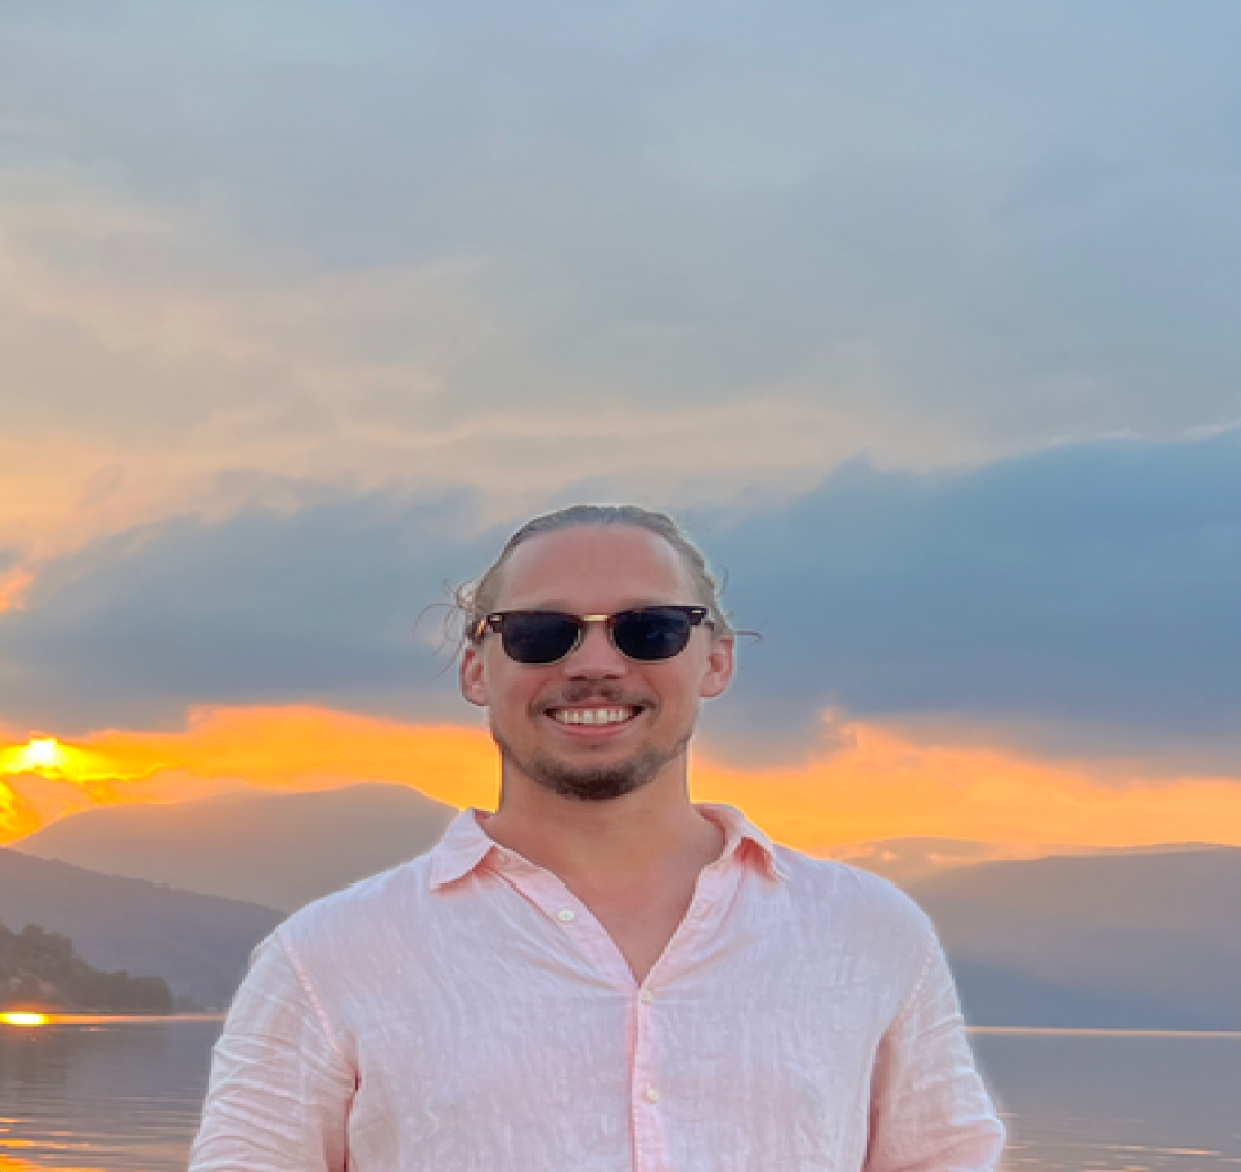
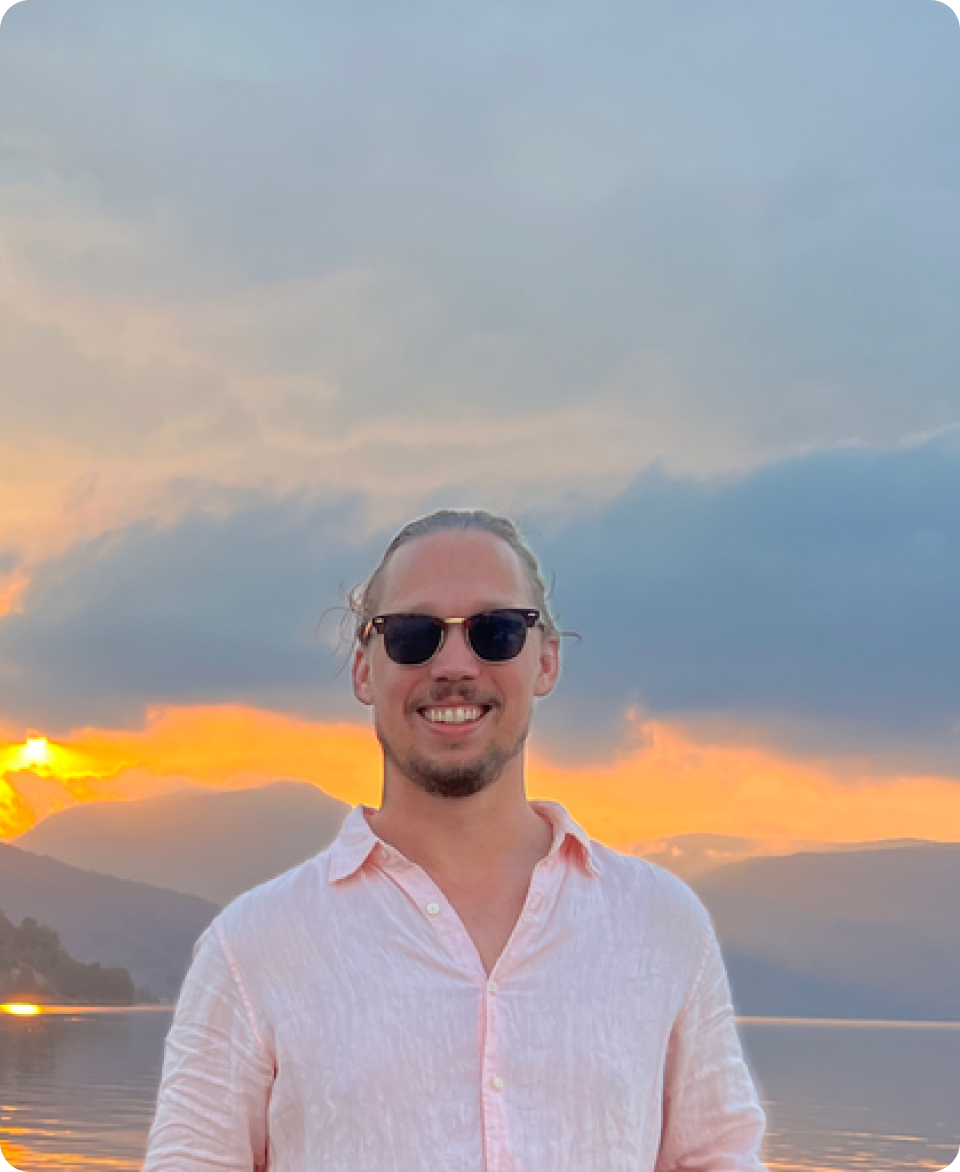
sddssd

diff --git a/_layouts/about.html b/_layouts/about.html
@@ -9,8 +9,8 @@ layout: default
       </div>
     </div>
     <div class=" lg:flex lg:flex-row flex flex-col lg:items-center px-8 py-8 lg:py-0 lg:px-24 space-y-4 lg:space-x-32 w-[100%] lg:h-[120%] bg-[#000212]">
-        <div class="w-[50%] lg:w-[45%]  ">
-            <img src="{{site.data.main.image}}" class="aspect-[1241/1172]" class="  border-none rounded-md border-rounded lg:rounded-xl">
+        <div>
+            <img src="{{site.data.main.image}}" class="aspect-[960/1172]" class="  border-none rounded-md border-rounded lg:rounded-xl">
         </div>
         <div class=" w-[100%] lg:w-[55%] text-white lg:flex lg:items-center font-dm-sans text-sm leading-2 text-xs lg:text-base lg:leading-[25px] font-normal lg:justify-center ">
             {{site.date.main.about_summary}}

diff --git a/_includes/main.html b/_includes/main.html
@@ -37,7 +37,7 @@
         </button>
     </div>
     <div class="lg:w-1/2 xl:w-1/2 w-full sm:w-11/12  pl-0 sm:pl-0 ">
-        <img src="{{site.data.main.image}}" alt="Paris" class="w-full h-auto ml-0 sm:ml-8 md:ml-8 rounded-md ">
+        <img src="{{site.data.main.image}}" class="aspect-[960/1172]" alt="Paris" class="w-full h-auto ml-0 sm:ml-8 md:ml-8 rounded-md ">
     </div>
 
 </div>
